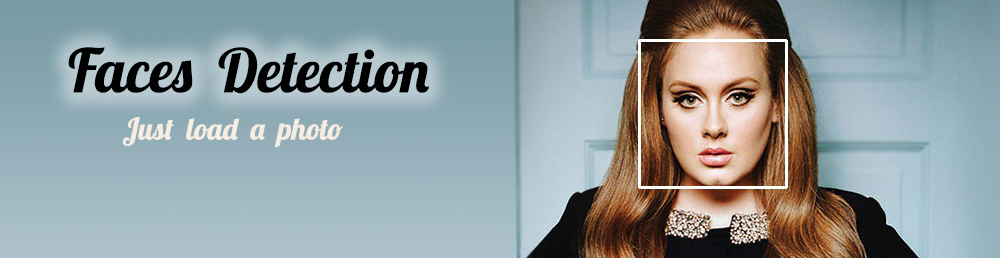
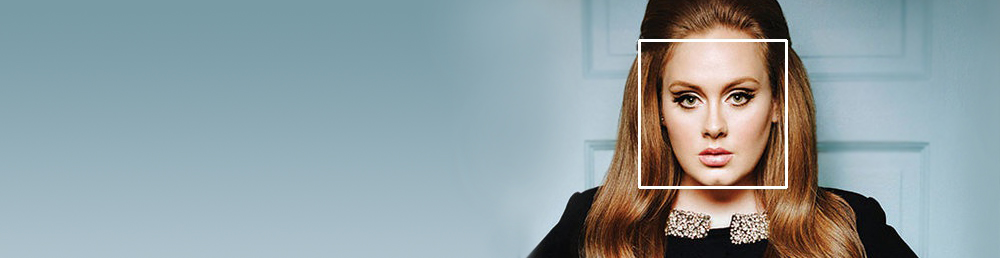
finish app

Changed region(s): [[0.031, 0.124, 0.465, 0.4031], [0.496, 0.0, 0.558, 1.0], [0.124, 0.4651, 0.341, 0.5581]]

diff --git a/FacesDetectionWebApp/Content/Style.css b/FacesDetectionWebApp/Content/Style.css
@@ -1,0 +1,126 @@
+body{
+    font-family: Lobster;
+    background-color: #d8b398;
+}
+.container {
+            width: 1000px;
+            margin: auto;
+}
+
+.header{
+    background-image: url("../Images/header.jpg");
+    height: 258px;
+    
+}
+
+.site-title{
+    font-size: 42pt;
+    text-shadow: 0px 0px 30px white;
+    margin: 0;
+    padding: 30px 80px 0;
+}
+.slogan{
+    font-size: 20pt;
+    margin: 0;
+    padding: 5px 140px;
+    color: #f6ede2;
+}
+.header a{
+    text-decoration: none;
+    color: black;
+}
+#menu{
+    margin-left: 40px;
+    margin-top: 60px;
+}
+#menu>li{
+    display:inline;
+    margin: 40px;
+    font-size: 22pt;
+    
+}
+#menu>li>a{
+    color: #334245;
+}
+#menu>li>a:hover{
+    text-decoration:underline;
+}
+
+#UploadedImage{
+    padding: 0;
+    margin: 0;
+}
+#ResultImage{
+    padding: 0;
+    margin: 0;
+}
+
+
+
+.footer{
+    text-align: center;
+    font-family: 'Roboto', sans-serif;
+    font-size: 10pt;
+    margin-top: 20px;
+    margin-bottom: 50px;
+}
+
+#form1{
+    text-align:center;
+    padding-top: 30px;
+    
+}
+
+
+
+.file-upload{
+    display: inline-block;
+    overflow: hidden;
+    text-align: center;
+    vertical-align: middle;
+    border: 1px solid #aec0cc;
+    color: #fff;
+    border-radius: 2px;
+    margin: 0 30px;
+}
+.file-upload{
+    background-image: url(../Content/loadFileBtn.png);
+}
+#UploadButton {
+    background-image: url(../Content/detectFacesBtn.png);
+    margin: 0 30px;
+    padding: 0;
+    height: 52px;
+}
+
+.file-upload:hover {
+    opacity: 0.8;
+}
+
+/* The button size */
+.file-upload {
+    height: 50px;
+    width: 200px;
+}
+
+.file-upload input {
+        
+        /* Loses tab index in webkit if width is set to 0 */
+        opacity: 0;
+        filter: alpha(opacity=0);
+}
+
+#UploadStatusLabel{
+    margin-top: 10px;
+    font-family: Consolas;
+    color: #ba1600;
+}
+
+
+.about-content{
+    font-family: 'Roboto', sans-serif;
+    padding: 0 30px 30px;;    
+}
+.about-content h4{
+    font-family: 'Roboto', sans-serif;
+}

diff --git a/FacesDetectionWebApp/about.aspx.designer.cs b/FacesDetectionWebApp/about.aspx.designer.cs
@@ -1,0 +1,15 @@
+//------------------------------------------------------------------------------
+// <auto-generated>
+//     This code was generated by a tool.
+//
+//     Changes to this file may cause incorrect behavior and will be lost if
+//     the code is regenerated. 
+// </auto-generated>
+//------------------------------------------------------------------------------
+
+namespace FacesDetectionWebApp {
+    
+    
+    public partial class _default {
+    }
+}

diff --git a/FacesDetectionWebApp/about.aspx.cs b/FacesDetectionWebApp/about.aspx.cs
@@ -1,0 +1,17 @@
+using System;
+using System.Collections.Generic;
+using System.Linq;
+using System.Web;
+using System.Web.UI;
+using System.Web.UI.WebControls;
+
+namespace FacesDetectionWebApp
+{
+    public partial class about : System.Web.UI.Page
+    {
+        protected void Page_Load(object sender, EventArgs e)
+        {
+
+        }
+    }
+}
